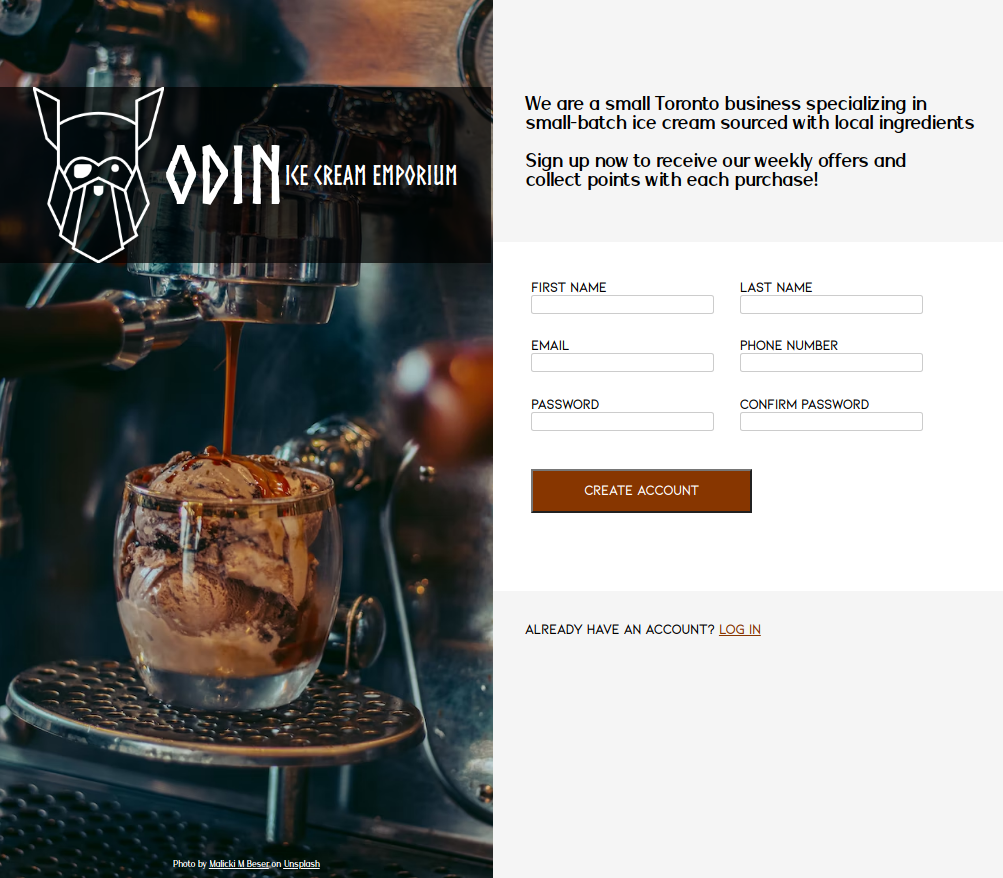
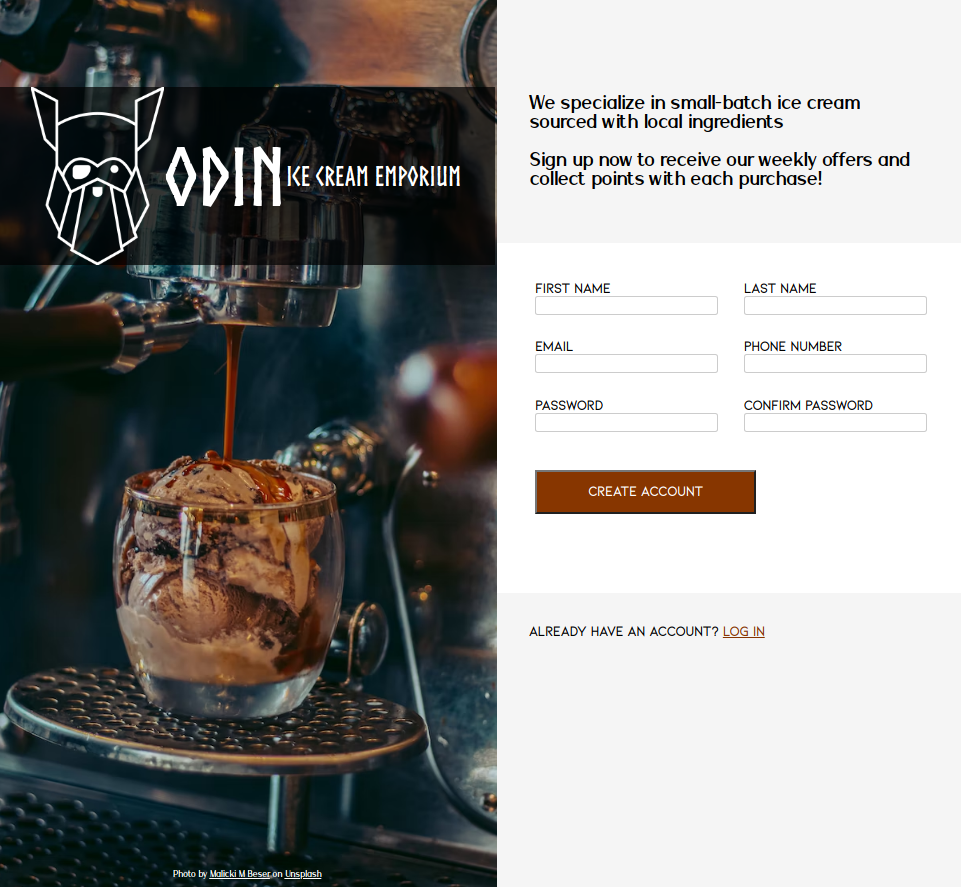
Add live demo to README, change description on index.html

diff --git a/index.html b/index.html
@@ -26,8 +26,8 @@
 
             <div class="form-container">
                 <div class="description">
-                    <h3>We are a small Toronto business specializing in
-                    <br>small-batch ice cream sourced with local ingredients
+                    <h3>We specialize in small-batch ice cream 
+                    <br>sourced with local ingredients
                     <br>
                     <br>Sign up now to receive our weekly offers and
                     <br>collect points with each purchase!</h3>

diff --git a/README.md b/README.md
@@ -2,11 +2,11 @@
 <img src="images/screenshot.png">
 
 ## Links
-* <a href="https://github.com/lhtn/sign-up.git">Live demo</a>
+* <a href="https://rawcdn.githack.com/lhtn/sign-up/e3c372790c7f1dd00702c9c640e9659260cc719b/index.html">Live demo</a>
 * <a href="https://www.theodinproject.com/lessons/intermediate-html-and-css-sign-up-form">Link to the assignment</a>
 
 ## About
-Sign-up Form a mock sign-up form with basic built-in form validations for name, phone number, email address, and password. This project is part of the Full-Stack Javascript curriculum of The Odin Project.
+Sign-up Form is a mock sign-up form with basic built-in form validations for name, phone number, email address, and password. This project is part of the Full-Stack Javascript curriculum of The Odin Project.
 
 ## Built with
 * HTML
